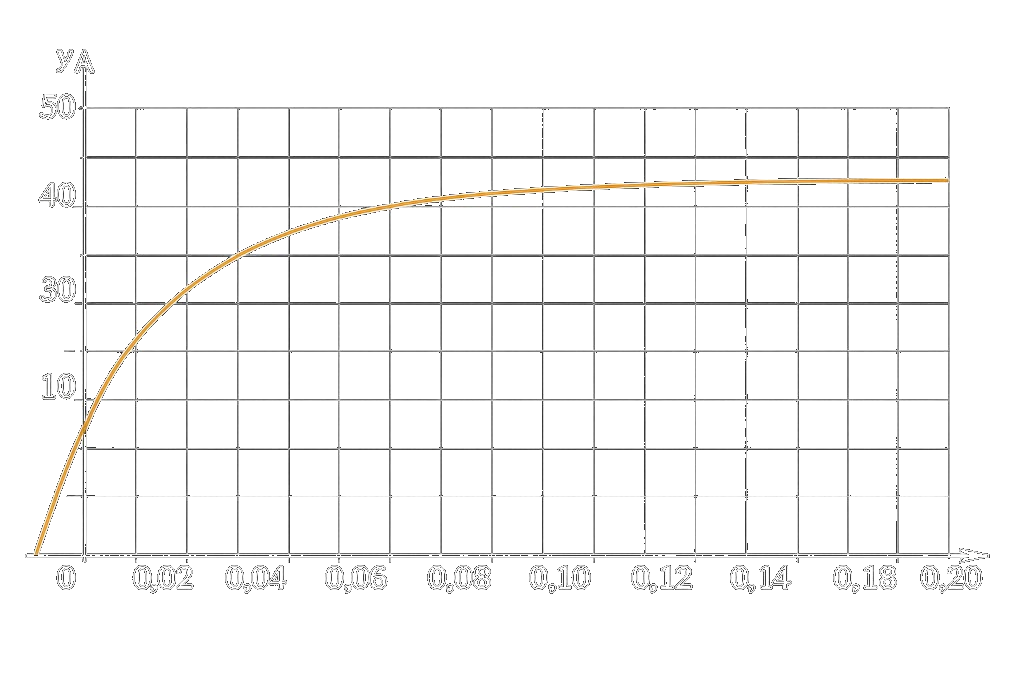
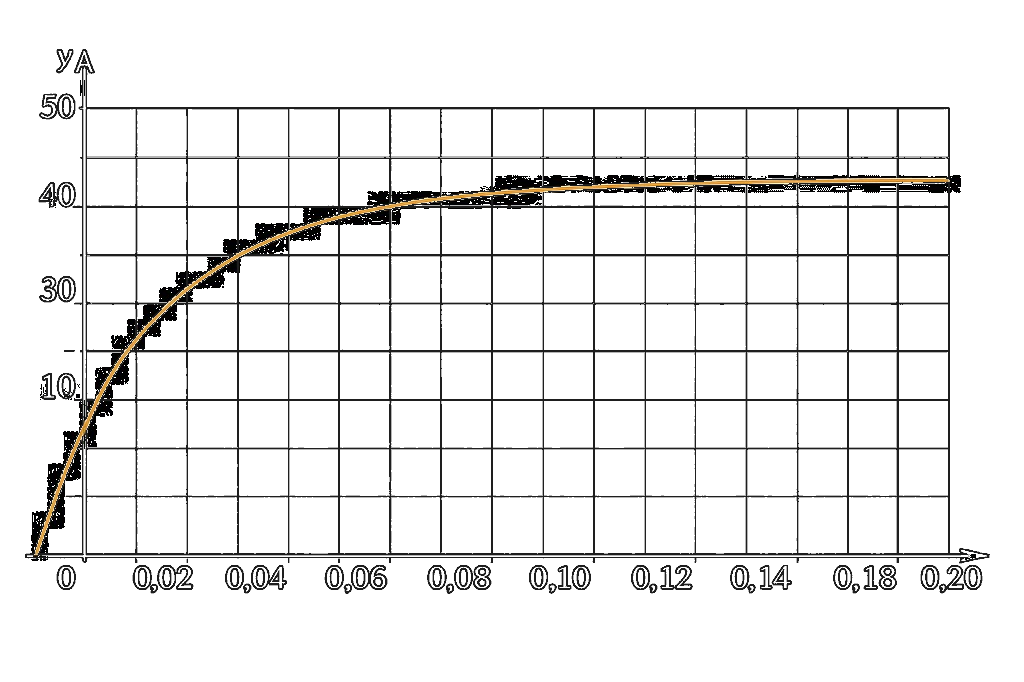
fix: Q4 graph - proper color remap (white bg, black labels, gray grid, orange curve); bump v61

diff --git a/extracted/biology-bank.js b/extracted/biology-bank.js
@@ -1733,7 +1733,7 @@ window.BIOLOGY_QUESTIONS = [
 		body:
 			'<p>Изучите график зависимости относительной скорости фотосинтеза у растений от концентрации углекислого газа в атмосфере (по оси <i>x</i> — концентрация CO₂, %; по оси <i>y</i> — относительная скорость фотосинтеза, усл. ед.).</p>' +
 			'<figure class="q-figure q-figure--wide" role="group" aria-label="График фотосинтеза">' +
-			'<img class="q-figure__img" src="/img/biology/q111-t4-12470.png?v=60" alt="График зависимости скорости фотосинтеза от концентрации углекислого газа" loading="lazy" decoding="async" />' +
+			'<img class="q-figure__img" src="/img/biology/q111-t4-12470.png?v=61" alt="График зависимости скорости фотосинтеза от концентрации углекислого газа" loading="lazy" decoding="async" />' +
 			'</figure>' +
 			'<p>Какие <b>два</b> из приведённых описаний наиболее точно отражают эту зависимость?</p>',
 		options: [

diff --git a/extracted/full-test-biology/index.html b/extracted/full-test-biology/index.html
@@ -1643,7 +1643,7 @@
 		</main>
 
 		<script src="/exam-config.js"></script>
-		<script src="/biology-bank.js?v=60"></script>
+		<script src="/biology-bank.js?v=61"></script>
 		<script src="/biology-variants.js?v=6"></script>
 		<script src="/iqmo-sync.js"></script>
 		<script src="/iqmo-nav.js"></script>
